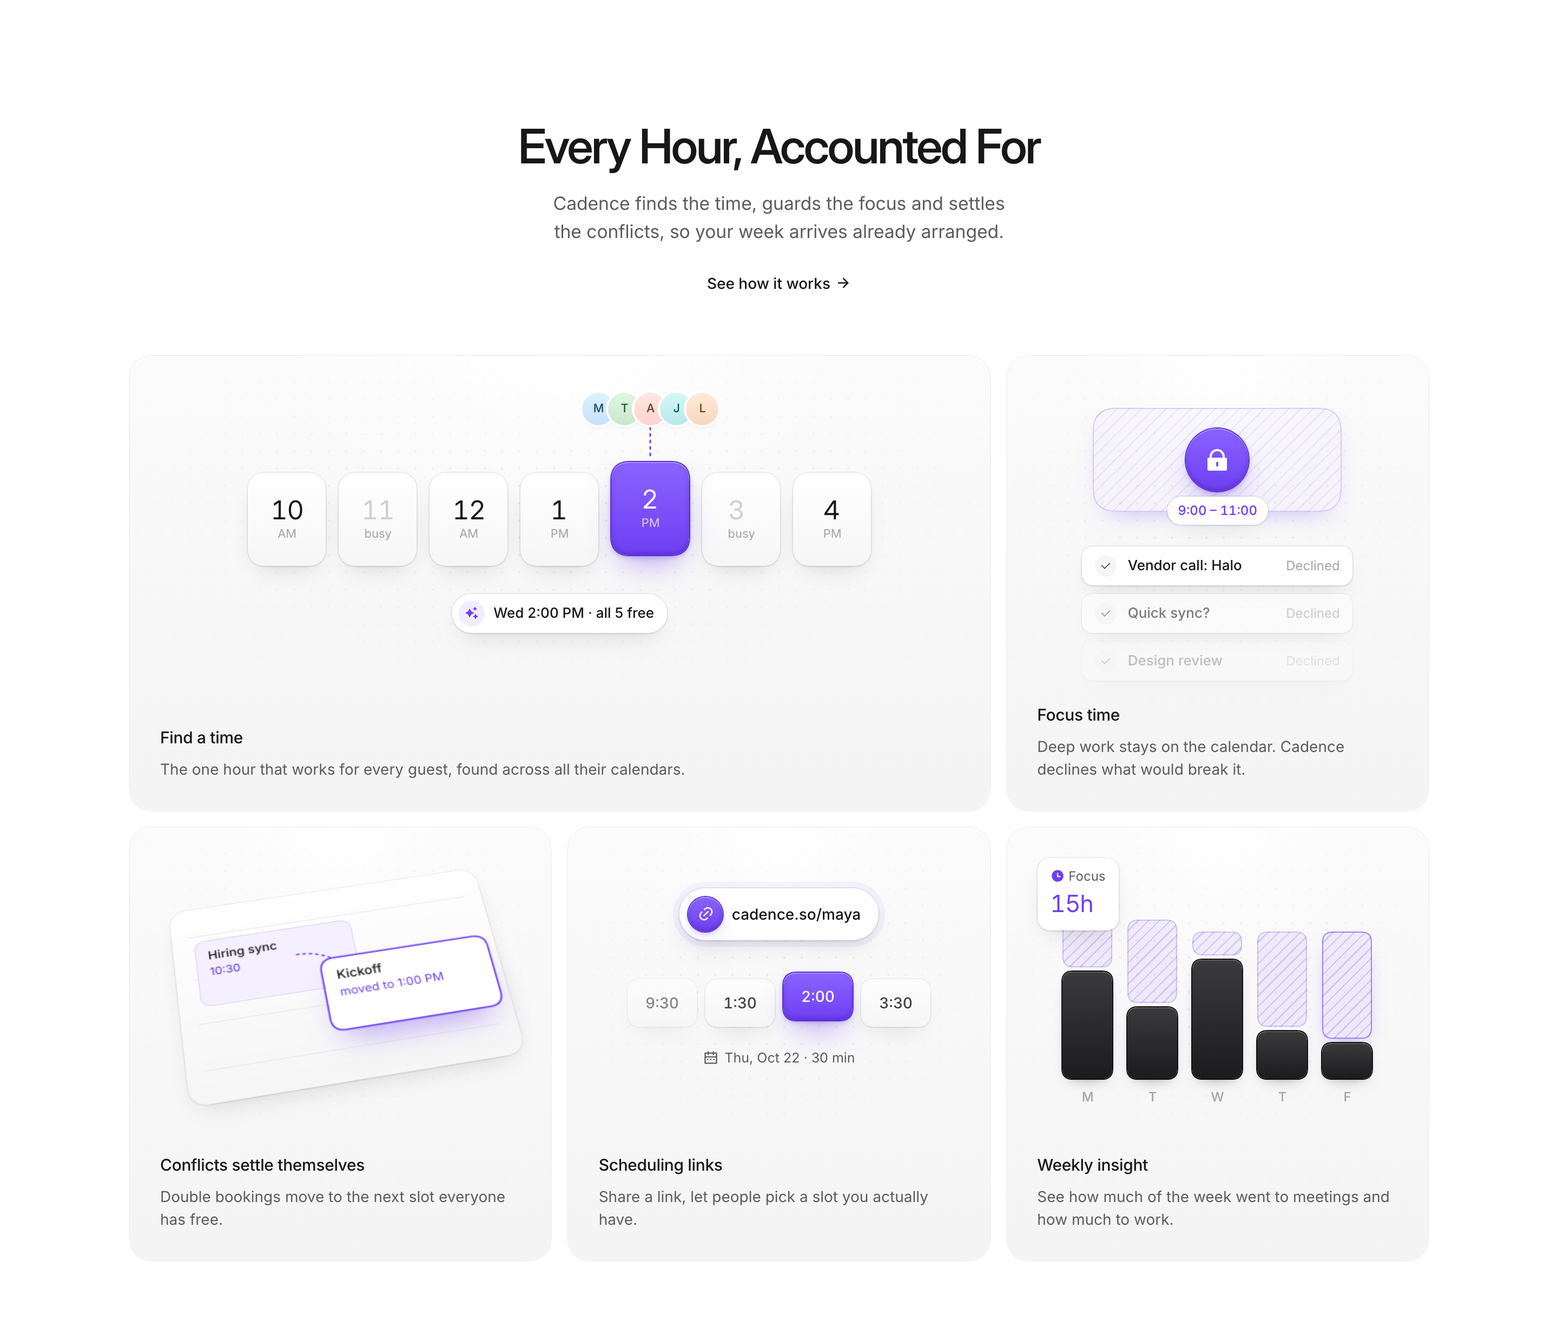
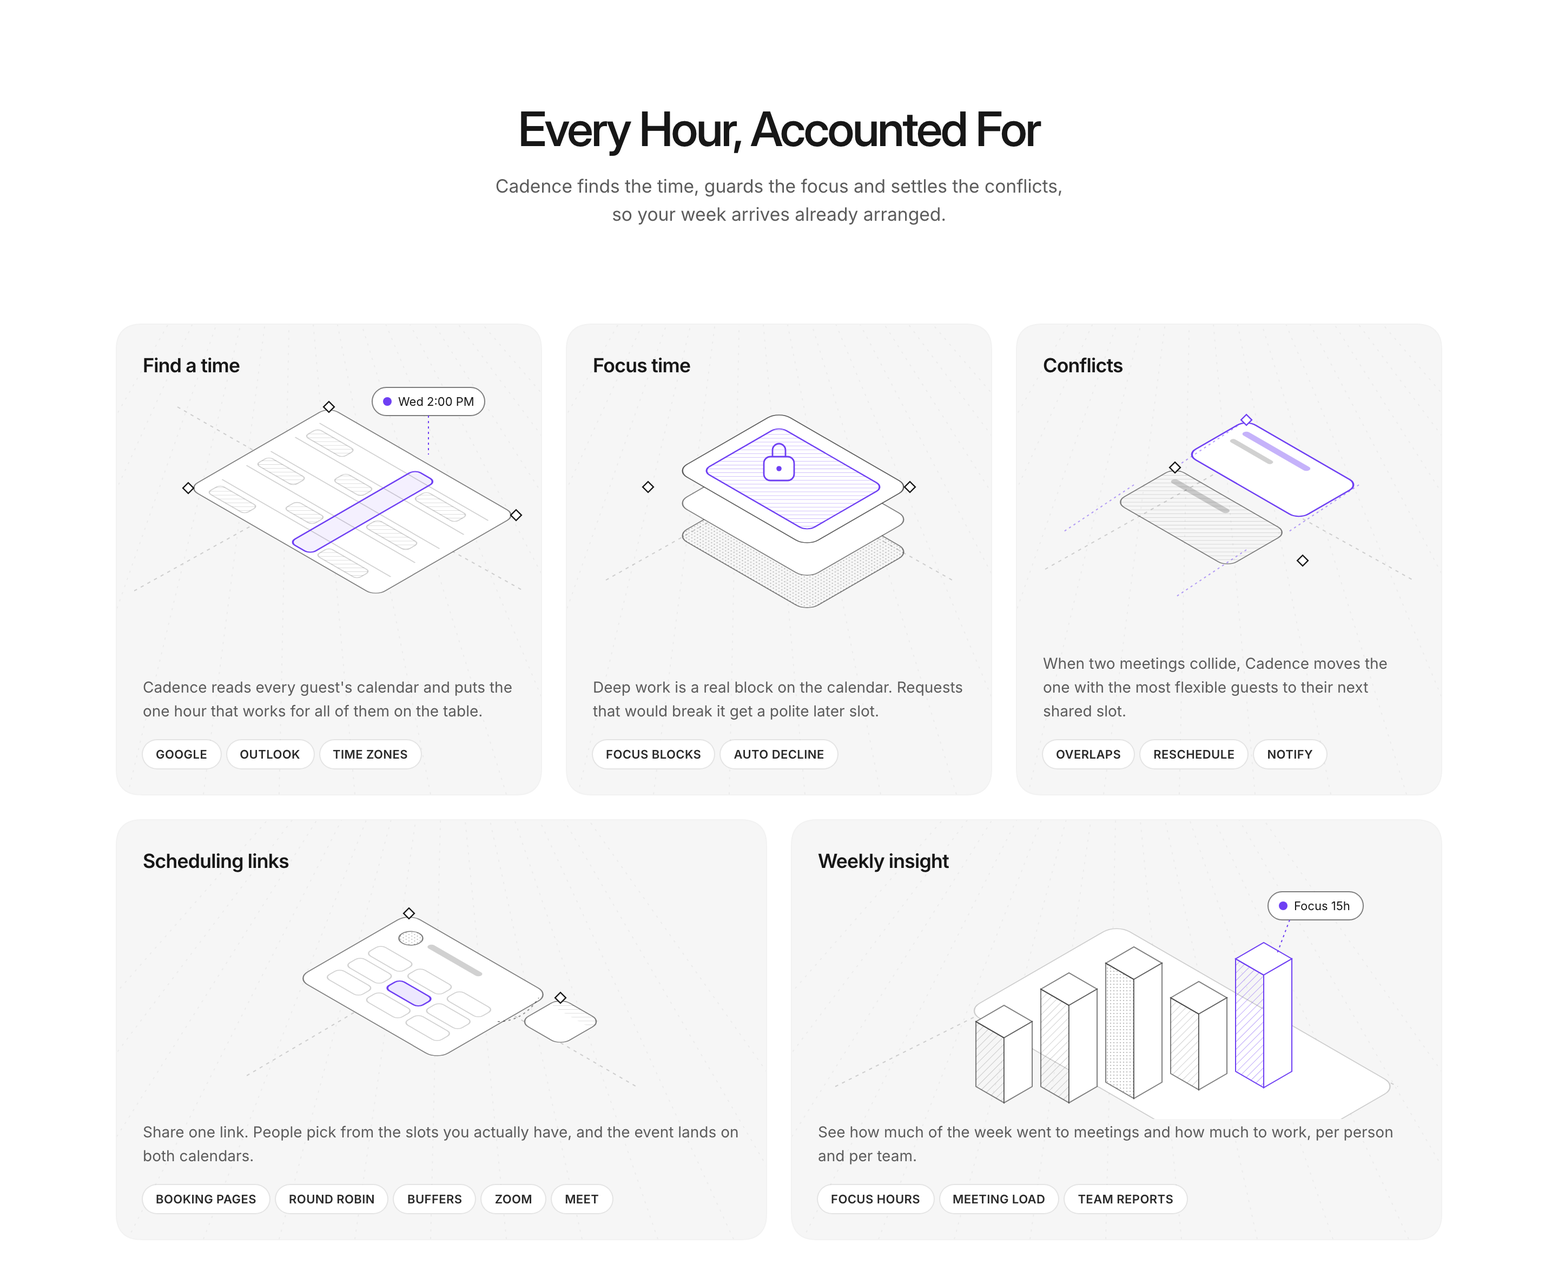
Cadence bento v3: replicate Kargul's services bento grammar (one isometric line-art system, caps chips, perspective grid) in light mode

diff --git a/work/replicas/app/src/Bento.tsx b/work/replicas/app/src/Bento.tsx
@@ -1,120 +1,115 @@
-// Cadence bento v2 in the Clerk/Raycast object-scene grammar (knowledge/benchmarks/bento/clerk-bento-a.png,
-// raycast-bento.png), carried to light mode: each cell is a lit scene (spotlight from above on a faint dot grid) holding
-// ONE tactile object built from the product (gradient fills, inner top highlight, layered contact + drop shadows),
-// lists fade by staggered opacity, copy sits small at the bottom (15/500 title + 14 muted). One violet accent. Sample data.
+// Cadence bento v3, replicate-first from Kargul Studio's services bento (knowledge/benchmarks/bento/kargul-services-bento.png,
+// 1440 css: 3 cells 392x434 over 2 cells 600x387, gap 24, r24). One grammar across every cell: a monochrome isometric
+// line drawing of the product's own object on a faint perspective grid, title top-left, a short body, a caps chip row.
+// Carried to light mode for Cadence; the violet appears once per cell, on the answer. Sample content.
 import type { ReactNode } from 'react'
-import { RiSparkling2Fill, RiLockFill, RiArrowRightLine, RiLink, RiCheckLine, RiTimeFill, RiCalendar2Line } from '@remixicon/react'
 
-const C = { ink: '#171717', sub: '#5c5c5c', soft: '#a3a3a3', line: '#ebebeb', v: '#6e3ff3' }
-// tactile white object: ring, top highlight, contact shadow, soft drop
-const obj = '0 0 0 1px rgb(0 0 0 / 0.06), inset 0 1px 0 #fff, 0 1px 2px rgb(0 0 0 / 0.06), 0 10px 24px -10px rgb(0 0 0 / 0.16)'
-const raised = '0 0 0 1px #5b2fd9, inset 0 1px 0 rgb(255 255 255 / 0.28), inset 0 -2px 4px rgb(40 0 120 / 0.25), 0 2px 4px rgb(68 27 180 / 0.25), 0 14px 28px -10px rgb(110 63 243 / 0.55)'
-const Face = ({ n, hue, s = 30 }: { n: string; hue: number; s?: number }) => <span className="grid shrink-0 place-items-center rounded-full font-[500]" style={{ width: s, height: s, fontSize: s * 0.36, background: `linear-gradient(180deg, oklch(0.95 0.035 ${hue}), oklch(0.9 0.05 ${hue}))`, color: `oklch(0.4 0.09 ${hue})`, boxShadow: '0 0 0 2px #fff, 0 2px 6px -2px rgb(0 0 0 / 0.2)' }}>{n}</span>
+const INK = '#171717', V = '#6e3ff3'
+const L = 'rgb(23 23 23 / 0.55)', F = 'rgb(23 23 23 / 0.2)'
+// isometric plane: maps flat (x,y) onto the iso floor
+const ISO = (x: number, y: number) => `matrix(0.866 0.5 -0.866 0.5 ${x} ${y})`
 
-function Cell({ title, body, children, className = '', h }: { title: string; body: string; children: ReactNode; className?: string; h: number }) {
+function Defs() {
   return (
-    <div className={`relative overflow-hidden rounded-[24px] ${className}`} style={{ height: h, background: 'linear-gradient(180deg, #fbfbfb, #f4f4f5)', boxShadow: '0 0 0 1px rgb(0 0 0 / 0.05), inset 0 1px 0 #fff' }}>
-      <div aria-hidden className="absolute inset-0" style={{ backgroundImage: 'radial-gradient(rgb(0 0 0 / 0.07) 1px, transparent 1.3px)', backgroundSize: '16px 16px', maskImage: 'radial-gradient(70% 60% at 50% 30%, #000, transparent 80%)' }} />
-      <div aria-hidden className="absolute inset-x-0 top-0 h-[70%]" style={{ background: 'radial-gradient(50% 70% at 50% 0%, rgb(255 255 255 / 0.95), transparent 70%)' }} />
-      <div className="absolute inset-x-0 top-0" style={{ height: h - 118 }}>{children}</div>
-      <div className="absolute inset-x-7 bottom-7"><div className="text-[15px] font-[500] tracking-[-0.01em]">{title}</div><div className="mt-1.5 text-[14px] leading-[21px]" style={{ color: C.sub }}>{body}</div></div>
-    </div>
+    <defs>
+      <pattern id="hatch" width="5" height="5" patternUnits="userSpaceOnUse" patternTransform="rotate(45)"><line x1="0" y1="0" x2="0" y2="5" stroke={F} strokeWidth="1" /></pattern>
+      <pattern id="hatchv" width="5" height="5" patternUnits="userSpaceOnUse" patternTransform="rotate(45)"><line x1="0" y1="0" x2="0" y2="5" stroke="rgb(110 63 243 / 0.45)" strokeWidth="1" /></pattern>
+      <pattern id="fine" width="3" height="3" patternUnits="userSpaceOnUse"><circle cx="1.5" cy="1.5" r="0.55" fill="rgb(23 23 23 / 0.35)" /></pattern>
+    </defs>
+  )
+}
+const Node = ({ x, y, c = INK }: { x: number; y: number; c?: string }) => <rect x={x - 3.5} y={y - 3.5} width="7" height="7" transform={`rotate(45 ${x} ${y})`} fill="#fff" stroke={c} strokeWidth="1.2" />
+const Guide = ({ d }: { d: string }) => <path d={d} fill="none" stroke="rgb(23 23 23 / 0.18)" strokeWidth="1" strokeDasharray="3 4" />
+
+function ArtFind() {
+  return (
+    <svg width="360" height="240" viewBox="0 0 360 240"><Defs />
+      <Guide d="M0 210 L180 110 L360 210" /><Guide d="M40 40 L180 120" />
+      <g transform={ISO(180, 40)}>
+        <rect x="0" y="0" width="200" height="150" rx="10" fill="#fff" stroke={L} />
+        {[0, 1, 2, 3, 4].map((r) => <g key={r}>
+          <line x1="10" y1={20 + r * 26} x2="190" y2={20 + r * 26} stroke={F} />
+          {[[14, 40], [70, 30], [130, 44]].map(([a, w], k) => (r + k) % 2 === 0 && <rect key={k} x={a} y={26 + r * 26} width={w} height="14" rx="4" fill="url(#hatch)" stroke={F} />)}
+        </g>)}
+        <rect x="104" y="12" width="22" height="134" rx="6" fill="rgb(110 63 243 / 0.08)" stroke={V} strokeWidth="1.4" />
+      </g>
+      <Node x={180} y={40} /><Node x={353} y={140} /><Node x={50} y={115} />
+      <g transform="translate(220 22)"><rect width="104" height="26" rx="13" fill="#fff" stroke={L} /><circle cx="14" cy="13" r="4" fill={V} /><text x="24" y="17" fontSize="11" fontFamily="Inter Variable" fill={INK}>Wed 2:00 PM</text></g>
+      <path d="M272 48 L272 84" stroke={V} strokeWidth="1" strokeDasharray="2 3" />
+    </svg>
   )
 }
 
-function FindTime() {
-  const H = ['10', '11', '12', '1', '2', '3', '4']
+function ArtFocus() {
   return (
-    <div className="grid h-full place-items-center">
-      <div className="relative">
-        <div className="flex gap-3">
-          {H.map((h) => {
-            const on = h === '2', busy = ['11', '3'].includes(h)
-            return (
-              <div key={h} className="grid h-[86px] w-[72px] place-items-center rounded-[18px] text-[24px] tracking-[-0.02em] tabular-nums" style={on ? { background: 'linear-gradient(180deg, #8a63ff, #6e3ff3)', color: '#fff', boxShadow: raised, transform: 'translateY(-10px)' } : { background: 'linear-gradient(180deg, #fff, #f6f6f6)', color: busy ? '#cfcfcf' : C.ink, boxShadow: obj }}>
-                <span className="leading-none">{h}<span className="block pt-1 text-center text-[11px] tracking-normal" style={{ color: on ? 'rgb(255 255 255 / 0.75)' : C.soft }}>{busy ? 'busy' : Number(h) < 9 ? 'PM' : 'AM'}</span></span>
-              </div>
-            )
-          })}
-        </div>
-        <div className="absolute -top-[74px] left-[372px] flex -translate-x-1/2 -space-x-1.5">{[['M', 250], ['T', 150], ['A', 25], ['J', 200], ['L', 60]].map(([n, h]) => <Face key={n} n={n as string} hue={h as number} />)}</div>
-        <svg className="pointer-events-none absolute -top-[42px] left-[336px]" width="72" height="34" aria-hidden><path d="M36 0V30" stroke={C.v} strokeWidth="1.5" strokeDasharray="2 4" strokeLinecap="round" /></svg>
-        <div className="absolute -bottom-[62px] left-1/2 flex -translate-x-1/2 items-center gap-2 whitespace-nowrap rounded-full bg-white py-1.5 pl-1.5 pr-3 text-[13px] font-[500]" style={{ boxShadow: obj }}>
-          <span className="grid size-6 place-items-center rounded-full" style={{ background: '#f1edff', color: C.v }}><RiSparkling2Fill size={13} /></span>Wed 2:00 PM · all 5 free
-        </div>
-      </div>
-    </div>
+    <svg width="360" height="240" viewBox="0 0 360 240"><Defs />
+      <Guide d="M20 200 L180 110 L340 200" />
+      {[2, 1].map((i) => <g key={i} transform={ISO(180, 44 + i * 30)}><rect width="140" height="110" rx="12" fill={i === 2 ? 'url(#fine)' : '#fff'} stroke={L} /></g>)}
+      <g transform={ISO(180, 44)}>
+        <rect width="140" height="110" rx="12" fill="#fff" stroke={INK} strokeOpacity="0.7" />
+        <rect x="14" y="14" width="112" height="82" rx="8" fill="url(#hatchv)" stroke={V} strokeWidth="1.3" />
+      </g>
+      <g transform="translate(166 86)"><rect width="28" height="22" rx="6" fill="#fff" stroke={V} strokeWidth="1.4" /><path d="M8 0 V-6 a6 6 0 0 1 12 0 V0" fill="none" stroke={V} strokeWidth="1.4" /><circle cx="14" cy="11" r="2.4" fill={V} /></g>
+      <Node x={301} y={114} /><Node x={59} y={114} />
+    </svg>
   )
 }
 
-function Focus() {
+function ArtConflict() {
   return (
-    <div className="flex h-full flex-col items-center pt-12">
-      <div className="relative grid h-[96px] w-[230px] place-items-center rounded-[22px]" style={{ backgroundImage: 'repeating-linear-gradient(135deg, rgb(110 63 243 / 0.12) 0 1.2px, rgb(110 63 243 / 0.03) 1.2px 8px)', boxShadow: 'inset 0 0 0 1px rgb(110 63 243 / 0.22), 0 10px 24px -14px rgb(110 63 243 / 0.5)' }}>
-        <span className="grid size-[58px] place-items-center rounded-full text-white" style={{ background: 'linear-gradient(180deg, #8a63ff, #6e3ff3)', boxShadow: raised }}><RiLockFill size={24} /></span>
-        <span className="absolute -bottom-3 rounded-full bg-white px-2.5 py-1 text-[12px] font-[500] tabular-nums" style={{ color: C.v, boxShadow: obj }}>9:00 – 11:00</span>
-      </div>
-      <div className="mt-8 w-[250px] space-y-2">
-        {[['Vendor call: Halo', 1], ['Quick sync?', 0.55], ['Design review', 0.25]].map(([t, o]) => (
-          <div key={t as string} className="flex items-center gap-2.5 rounded-[12px] bg-white px-3 py-2" style={{ boxShadow: obj, opacity: o as number }}>
-            <span className="grid size-5 place-items-center rounded-full" style={{ background: '#f5f5f5', color: C.sub }}><RiCheckLine size={12} /></span>
-            <span className="text-[13px] font-[500]">{t as string}</span><span className="ml-auto text-[12px]" style={{ color: C.soft }}>Declined</span>
-          </div>
-        ))}
-      </div>
-    </div>
+    <svg width="360" height="240" viewBox="0 0 360 240"><Defs />
+      <Guide d="M10 190 L170 100 L350 200" />
+      <g transform={ISO(130, 96)}><rect width="120" height="64" rx="10" fill="url(#hatch)" stroke={L} /><rect x="10" y="10" width="60" height="6" rx="3" fill={F} /></g>
+      <g transform={ISO(196, 52)}><rect width="120" height="64" rx="10" fill="#fff" stroke={V} strokeWidth="1.4" /><rect x="10" y="10" width="70" height="6" rx="3" fill="rgb(110 63 243 / 0.4)" /><rect x="10" y="24" width="44" height="5" rx="2.5" fill={F} /></g>
+      {[[196, 52], [92, 112], [300, 112], [196, 172]].map(([x, y], i) => <line key={i} x1={x} y1={y} x2={x - 66} y2={y + 44} stroke={V} strokeOpacity="0.5" strokeDasharray="2 3" />)}
+      <Node x={130} y={96} /><Node x={196} y={52} c={V} /><Node x={248} y={182} />
+    </svg>
   )
 }
 
-function Conflict() {
+function ArtLink() {
   return (
-    <div className="grid h-full place-items-center" style={{ perspective: 900 }}>
-      <div className="relative h-[200px] w-[300px]" style={{ transform: 'rotateX(28deg) rotateZ(-10deg)', transformStyle: 'preserve-3d' }}>
-        <div className="absolute inset-0 rounded-[20px]" style={{ background: 'linear-gradient(180deg, #fff, #f6f6f6)', boxShadow: obj }}>
-          {[0, 1, 2, 3].map((i) => <div key={i} className="absolute inset-x-4 h-px" style={{ top: 30 + i * 46, background: C.line }} />)}
-        </div>
-        <div className="absolute left-5 top-9 h-[70px] w-[150px] rounded-[12px] px-3 py-2" style={{ background: '#f4f0ff', boxShadow: 'inset 0 0 0 1px #e1d6ff' }}><div className="text-[12px] font-[500]">Hiring sync</div><div className="text-[11px]" style={{ color: '#5b2fd9' }}>10:30</div></div>
-        <div className="absolute left-[132px] top-[96px] h-[70px] w-[150px] rounded-[12px] px-3 py-2" style={{ background: '#fff', boxShadow: '0 0 0 1.5px #6e3ff3, 0 18px 30px -12px rgb(110 63 243 / 0.5)', transform: 'translateZ(36px)' }}>
-          <div className="text-[12px] font-[500]">Kickoff</div><div className="text-[11px]" style={{ color: C.v }}>moved to 1:00 PM</div>
-        </div>
-        <svg className="absolute left-[110px] top-[60px]" width="80" height="60" aria-hidden><path d="M4 6C30 6 48 20 60 50" fill="none" stroke={C.v} strokeWidth="1.5" strokeDasharray="2 4" strokeLinecap="round" /></svg>
-      </div>
-    </div>
+    <svg width="360" height="240" viewBox="0 0 360 240"><Defs />
+      <Guide d="M0 200 L170 100 L360 210" />
+      <g transform={ISO(150, 50)}>
+        <rect width="150" height="120" rx="12" fill="#fff" stroke={L} />
+        {[0, 1, 2].map((r) => [0, 1, 2].map((c) => <rect key={`${r}${c}`} x={14 + c * 42} y={44 + r * 22} width="36" height="16" rx="5" fill={r === 1 && c === 1 ? 'rgb(110 63 243 / 0.12)' : '#fff'} stroke={r === 1 && c === 1 ? V : F} strokeWidth={r === 1 && c === 1 ? 1.4 : 1} />))}
+        <circle cx="24" cy="22" r="9" fill="url(#fine)" stroke={L} /><rect x="40" y="16" width="56" height="6" rx="3" fill={F} />
+      </g>
+      <g transform={ISO(290, 128)}><rect width="44" height="44" rx="10" fill="#fff" stroke={L} /><rect width="44" height="12" rx="6" fill="url(#hatch)" /></g>
+      <path d="M232 150 C250 150 262 140 270 128" fill="none" stroke={INK} strokeOpacity="0.45" strokeDasharray="2 3" />
+      <Node x={150} y={50} /><Node x={290} y={128} />
+    </svg>
   )
 }
 
-function Booking() {
+function ArtInsight() {
+  const T = ({ x, y, h, fill, s = L }: { x: number; y: number; h: number; fill: string; s?: string }) => (
+    <g><path d={`M${x} ${y} l26 -15 l26 15 l-26 15 z`} fill="#fff" stroke={s} /><path d={`M${x} ${y} v${h} l26 15 v-${h} z`} fill={fill} stroke={s} /><path d={`M${x + 52} ${y} v${h} l-26 15 v-${h} z`} fill="#fff" stroke={s} /></g>
+  )
   return (
-    <div className="flex h-full flex-col items-center pt-14">
-      <div className="flex items-center gap-2 rounded-full bg-white py-2 pl-2 pr-4 text-[14px] font-[500]" style={{ boxShadow: `${obj}, 0 0 0 6px rgb(110 63 243 / 0.06)` }}>
-        <span className="grid size-8 place-items-center rounded-full text-white" style={{ background: 'linear-gradient(180deg, #8a63ff, #6e3ff3)', boxShadow: raised }}><RiLink size={15} /></span>cadence.so/maya
-      </div>
-      <div className="mt-9 flex gap-2">
-        {['9:30', '1:30', '2:00', '3:30'].map((t, i) => (
-          <span key={t} className="grid h-11 w-[64px] place-items-center rounded-[13px] text-[14px] font-[500] tabular-nums" style={i === 2 ? { background: 'linear-gradient(180deg, #8a63ff, #6e3ff3)', color: '#fff', boxShadow: raised, transform: 'translateY(-6px)' } : { background: 'linear-gradient(180deg, #fff, #f6f6f6)', boxShadow: obj, opacity: [0.5, 0.8, 1, 0.8][i] }}>{t}</span>
-        ))}
-      </div>
-      <div className="mt-5 flex items-center gap-1.5 text-[12.5px]" style={{ color: C.sub }}><RiCalendar2Line size={14} />Thu, Oct 22 · 30 min</div>
-    </div>
+    <svg width="560" height="240" viewBox="0 0 560 240"><Defs />
+      <Guide d="M20 210 L280 80 L540 210" />
+      <g transform={ISO(280, 60)}><rect width="300" height="160" rx="14" fill="#fff" stroke={F} /></g>
+      {[[150, 150, 60, 'url(#hatch)'], [210, 120, 90, 'url(#hatch)'], [270, 96, 110, 'url(#fine)'], [330, 128, 70, 'url(#hatch)']].map(([x, y, h, f], i) => <T key={i} x={x as number} y={y as number} h={h as number} fill={f as string} />)}
+      <T x={390} y={92} h={104} fill="url(#hatchv)" s={V} />
+      <g transform="translate(420 30)"><rect width="88" height="26" rx="13" fill="#fff" stroke={L} /><circle cx="14" cy="13" r="4" fill={V} /><text x="24" y="17" fontSize="11" fontFamily="Inter Variable" fill={INK}>Focus 15h</text></g>
+      <path d="M440 56 L428 88" stroke={V} strokeDasharray="2 3" />
+    </svg>
   )
 }
 
-function Insight() {
-  const D: [string, number, number][] = [['M', 4.5, 2], ['T', 3, 3.5], ['W', 5, 1], ['T', 2, 4], ['F', 1.5, 4.5]]
+function Cell({ w, h, title, body, chips, art, artH = 250 }: { w: number; h: number; title: string; body: string; chips: string[]; art: ReactNode; artH?: number }) {
   return (
-    <div className="flex h-full items-end justify-center gap-3.5 pb-6">
-      {D.map(([d, m, f], i) => (
-        <div key={i} className="flex flex-col items-center gap-2">
-          <div className="flex w-[46px] flex-col gap-1">
-            <span className="w-full rounded-[10px]" style={{ height: f * 22, backgroundImage: 'repeating-linear-gradient(135deg, rgb(110 63 243 / 0.28) 0 1.2px, rgb(110 63 243 / 0.08) 1.2px 7px)', boxShadow: `inset 0 0 0 1px rgb(110 63 243 / ${i === 4 ? 0.6 : 0.25})${i === 4 ? ', 0 10px 20px -10px rgb(110 63 243 / 0.6)' : ''}` }} />
-            <span className="w-full rounded-[10px]" style={{ height: m * 22, background: 'linear-gradient(180deg, #3a3a3d, #1c1c1e)', boxShadow: '0 0 0 1px #111, inset 0 1px 0 rgb(255 255 255 / 0.15), 0 6px 14px -8px rgb(0 0 0 / 0.5)' }} />
-          </div>
-          <span className="text-[12px] font-[500]" style={{ color: C.soft }}>{d}</span>
-        </div>
-      ))}
-      <div className="absolute left-7 top-7 rounded-[14px] bg-white px-3 py-2" style={{ boxShadow: obj }}>
-        <div className="flex items-center gap-1 text-[12px]" style={{ color: C.sub }}><RiTimeFill size={13} style={{ color: C.v }} />Focus</div>
-        <div className="text-[22px] tracking-[-0.02em] tabular-nums" style={{ color: C.v }}>15h</div>
+    <div className="relative overflow-hidden rounded-[24px]" style={{ width: w, height: h, background: '#f6f6f6', boxShadow: '0 0 0 1px rgb(0 0 0 / 0.05)' }}>
+      <svg aria-hidden className="absolute inset-0" width={w} height={h}>
+        {Array.from({ length: 14 }, (_, i) => <line key={i} x1={-200 + i * 70} y1={h} x2={w / 2 + (i - 7) * 18} y2={-40} stroke="rgb(0 0 0 / 0.045)" strokeDasharray="2 5" />)}
+      </svg>
+      <div className="absolute left-6 top-6 text-[18px] font-[600] tracking-[-0.02em]">{title}</div>
+      <div className="absolute inset-x-0 top-[36px] flex justify-center" style={{ height: artH }}>{art}</div>
+      <div className="absolute inset-x-6 bottom-6">
+        <p className="text-[14px] leading-[22px]" style={{ color: '#5c5c5c' }}>{body}</p>
+        <div className="mt-4 flex flex-wrap gap-1.5">{chips.map((c) => <span key={c} className="flex h-[26px] items-center rounded-full bg-white px-3 text-[11px] font-[600] tracking-[0.02em]" style={{ boxShadow: '0 0 0 1px rgb(0 0 0 / 0.07)', color: '#2a2a2a' }}>{c}</span>)}</div>
       </div>
     </div>
   )
@@ -122,19 +117,20 @@ function Insight() {
 
 export default function Bento() {
   return (
-    <div className="relative" style={{ width: 1440, height: 1220, background: '#ffffff', fontFamily: '"Inter Variable", system-ui, sans-serif', fontFeatureSettings: '"cv11", "ss01"', color: C.ink }}>
-      <div className="absolute inset-x-[120px] top-[112px]">
-        <div className="text-center">
-          <h2 className="text-[44px] font-[550] leading-[1.06] tracking-[-0.04em]">Every Hour, Accounted For</h2>
-          <p className="mx-auto mt-4 w-[520px] text-[17px] leading-[26px]" style={{ color: C.sub }}>Cadence finds the time, guards the focus and settles<br />the conflicts, so your week arrives already arranged.</p>
-          <span className="mt-6 inline-flex items-center gap-1 text-[14px] font-[500]">See how it works<RiArrowRightLine size={15} /></span>
+    <div className="relative" style={{ width: 1440, height: 1180, background: '#ffffff', fontFamily: '"Inter Variable", system-ui, sans-serif', fontFeatureSettings: '"cv11", "ss01"', color: INK }}>
+      <div className="absolute inset-x-0 top-[96px] text-center">
+        <h2 className="text-[44px] font-[550] leading-[1.06] tracking-[-0.04em]">Every Hour, Accounted For</h2>
+        <p className="mx-auto mt-4 text-[17px] leading-[26px]" style={{ color: '#5c5c5c' }}>Cadence finds the time, guards the focus and settles the conflicts,<br />so your week arrives already arranged.</p>
+      </div>
+      <div className="absolute left-[108px] top-[300px] flex flex-col gap-6">
+        <div className="flex gap-6">
+          <Cell w={392} h={434} title="Find a time" art={<ArtFind />} body="Cadence reads every guest's calendar and puts the one hour that works for all of them on the table." chips={['GOOGLE', 'OUTLOOK', 'TIME ZONES']} />
+          <Cell w={392} h={434} title="Focus time" art={<ArtFocus />} body="Deep work is a real block on the calendar. Requests that would break it get a polite later slot." chips={['FOCUS BLOCKS', 'AUTO DECLINE']} />
+          <Cell w={392} h={434} title="Conflicts" art={<ArtConflict />} body="When two meetings collide, Cadence moves the one with the most flexible guests to their next shared slot." chips={['OVERLAPS', 'RESCHEDULE', 'NOTIFY']} />
         </div>
-        <div className="mt-14 grid grid-cols-3 gap-4">
-          <Cell className="col-span-2" h={420} title="Find a time" body="The one hour that works for every guest, found across all their calendars."><FindTime /></Cell>
-          <Cell h={420} title="Focus time" body="Deep work stays on the calendar. Cadence declines what would break it."><Focus /></Cell>
-          <Cell h={400} title="Conflicts settle themselves" body="Double bookings move to the next slot everyone has free."><Conflict /></Cell>
-          <Cell h={400} title="Scheduling links" body="Share a link, let people pick a slot you actually have."><Booking /></Cell>
-          <Cell h={400} title="Weekly insight" body="See how much of the week went to meetings and how much to work."><Insight /></Cell>
+        <div className="flex gap-6">
+          <Cell w={600} h={387} title="Scheduling links" art={<ArtLink />} artH={230} body="Share one link. People pick from the slots you actually have, and the event lands on both calendars." chips={['BOOKING PAGES', 'ROUND ROBIN', 'BUFFERS', 'ZOOM', 'MEET']} />
+          <Cell w={600} h={387} title="Weekly insight" art={<ArtInsight />} artH={230} body="See how much of the week went to meetings and how much to work, per person and per team." chips={['FOCUS HOURS', 'MEETING LOAD', 'TEAM REPORTS']} />
         </div>
       </div>
     </div>
